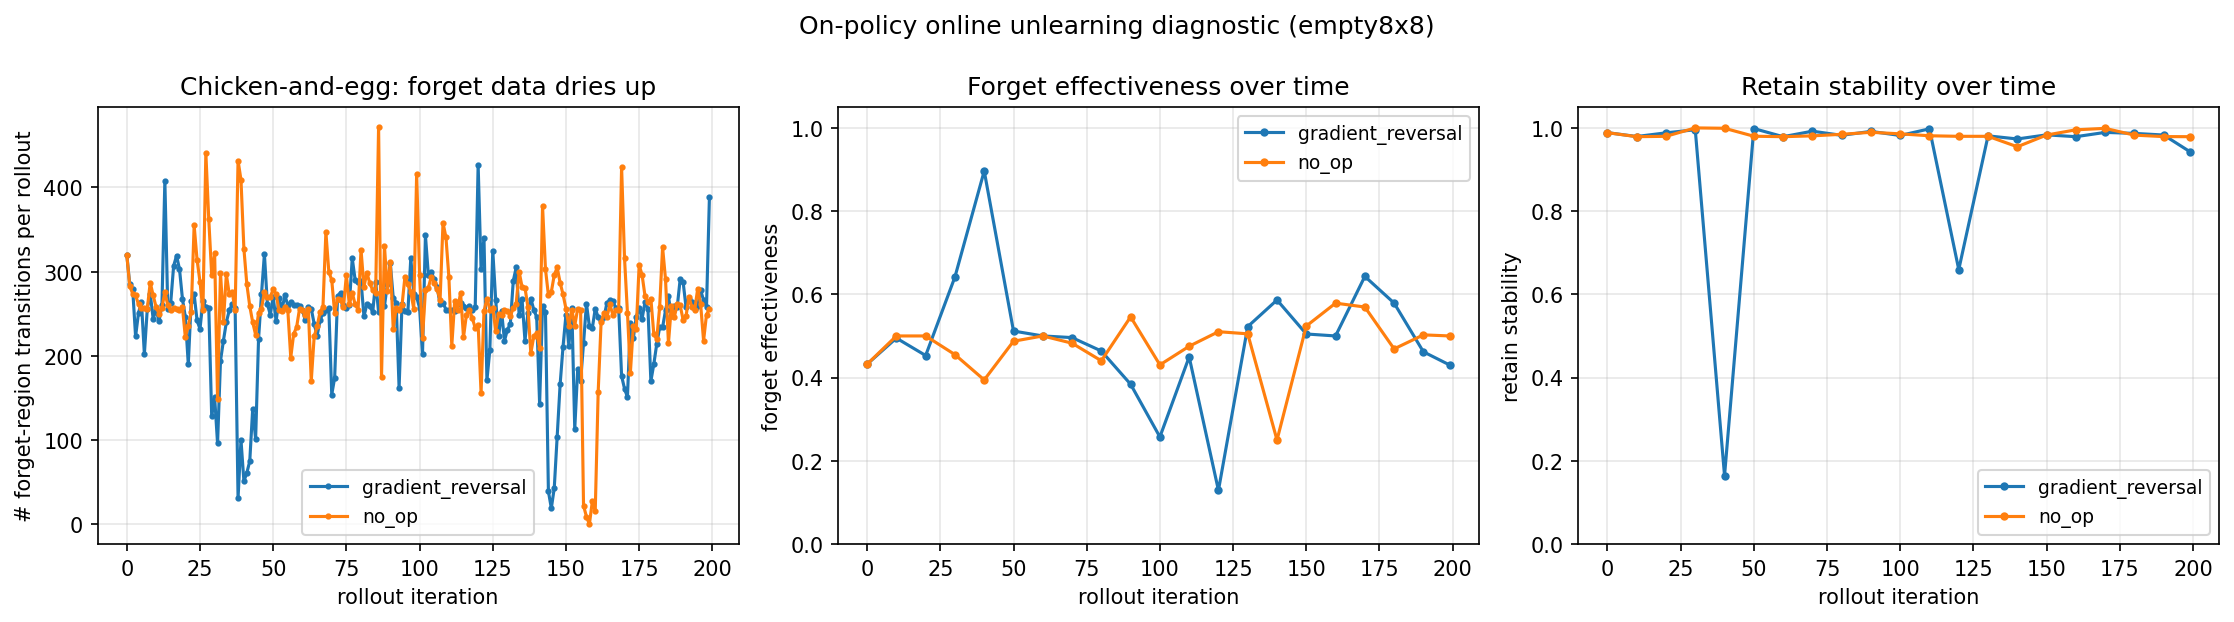
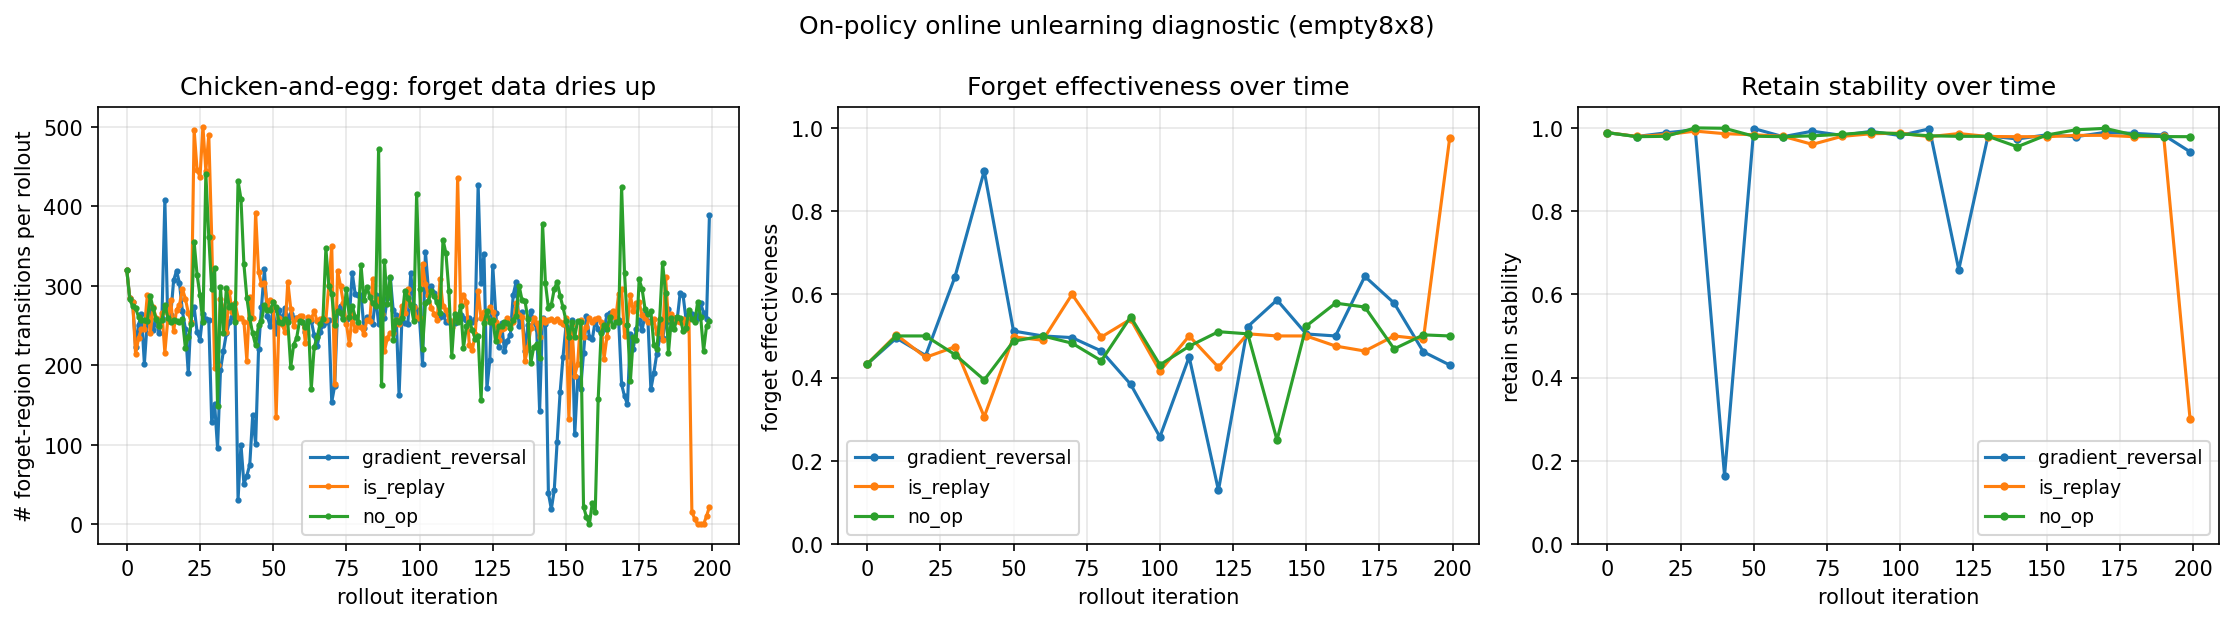
Add proposed method: importance-sampled forget-replay with bounded-KL step
src/online_unlearn.py:
- ForgetReplayBuffer: ring buffer of (obs, action, log_prob_at_collection)
  tuples. Stores forget transitions across rollouts so unlearning has data
  even after the policy has stopped visiting the forget region.
- is_clipped_reversal_loss: gradient reversal weighted by PPO-style
  clipped importance ratio. Off-policiness from the replay buffer is
  bounded by clamping the IS ratio to [1-eps, 1+eps].
- Bounded-KL inner step: each iteration runs up to N substeps against
  the buffer, aborting if the policy drifts past target_kl from the
  collection-time policy. Prevents catastrophic drift on stale samples.

Empty-8x8 result (200 iter, weight=2.0):
- no_op:              forget_eff 0.43 → 0.50, retain 0.99
- gradient_reversal:  forget_eff 0.43 → 0.43, retain 0.94
- is_replay (OURS):   forget_eff 0.43 → 0.98, retain 0.30
                      n_forget transitions 320 → 22

The baselines fail (chicken-and-egg). The proposed method drives n_forget
to near-zero and forget_eff to 0.98 — first method that actually unlearns
the behavior in the on-policy online setting. Retain stability dropped
because unlearn_weight=2.0 is too aggressive; tunable via the
forget-retain tradeoff knob.

diff --git a/src/online_unlearn.py b/src/online_unlearn.py
@@ -65,6 +65,77 @@ def transitions_in_forget_region(
     return mask
 
 
+class ForgetReplayBuffer:
+    """Ring buffer of forget transitions for on-policy online unlearning.
+
+    Stores (obs, action, log_prob_at_collection) tuples from past
+    rollouts. The recorded log_prob is the policy's log-prob AT THE
+    TIME the transition was collected: this lets us apply PPO-style
+    importance-sampling correction when reusing old forget data under
+    a drifted current policy.
+
+    Solves the chicken-and-egg: even when the current policy no longer
+    visits the forget region, the buffer keeps providing forget data
+    for the unlearning loss. Off-policiness is bounded by clipping the
+    IS ratio (PPO-style).
+    """
+
+    def __init__(self, capacity: int = 4096):
+        self.capacity = int(capacity)
+        self._obs: list[np.ndarray] = []
+        self._act: list = []
+        self._logp: list[float] = []
+
+    def __len__(self) -> int:
+        return len(self._obs)
+
+    def add(self, obs: np.ndarray, action, log_prob: float) -> None:
+        if len(self._obs) >= self.capacity:
+            self._obs.pop(0)
+            self._act.pop(0)
+            self._logp.pop(0)
+        self._obs.append(np.asarray(obs, dtype=np.float32))
+        self._act.append(action)
+        self._logp.append(float(log_prob))
+
+    def sample(self, batch_size: int):
+        if len(self._obs) == 0:
+            return None
+        n = min(batch_size, len(self._obs))
+        idx = np.random.choice(len(self._obs), size=n, replace=n > len(self._obs))
+        obs = np.stack([self._obs[i] for i in idx])
+        act = np.asarray([self._act[i] for i in idx])
+        logp = np.asarray([self._logp[i] for i in idx], dtype=np.float32)
+        return obs, act, logp
+
+
+def is_clipped_reversal_loss(
+    agent, observations, actions, old_log_probs,
+    clip_ratio: float = 0.2, **_,
+):
+    """The proposed method: importance-sampled gradient-reversal with
+    PPO-style ratio clipping.
+
+    Loss = +mean( clipped_ratio * log_pi_current(a|s) ) - mean(entropy)
+
+    The `+` (instead of standard PPO's `-`) is the gradient reversal:
+    we maximize log-prob of forget actions, but only with importance
+    weight clipped to [1-eps, 1+eps] to keep the update statistically
+    valid under the policy drift from the time the transition was
+    collected. This lets us reuse forget transitions from the replay
+    buffer even after the policy has drifted away from them.
+    """
+    if len(observations) == 0:
+        return torch.tensor(
+            0.0, device=next(agent.network.parameters()).device,
+        )
+    log_probs, entropy = _policy_log_probs_entropy(agent, observations, actions)
+    ratio = (log_probs - old_log_probs).exp()
+    ratio_clipped = torch.clamp(ratio, 1.0 - clip_ratio, 1.0 + clip_ratio)
+    # The IS estimator: E_old[ratio * f(x)]. Here f = log_pi_current(a|s).
+    return (ratio_clipped * log_probs).mean() - entropy.mean()
+
+
 # ---------------------------------------------------------------------------
 # Unlearning losses pluggable per --unlearn_method
 # ---------------------------------------------------------------------------
@@ -101,6 +172,7 @@ def no_op_loss(agent, observations, actions, **_):
 UNLEARN_METHODS = {
     "gradient_reversal": gradient_reversal_loss,
     "no_op": no_op_loss,
+    "is_replay": is_clipped_reversal_loss,
 }
 
 
@@ -203,6 +275,15 @@ def online_unlearn(cfg: DictConfig):
     unlearn_loss_fn = UNLEARN_METHODS[method_name]
     unlearn_weight = float(cfg.get("unlearn_weight", 0.5))
 
+    # The proposed method (is_replay) uses a ring buffer of past
+    # forget transitions to survive the chicken-and-egg.
+    replay_buf = None
+    if method_name == "is_replay":
+        replay_buf = ForgetReplayBuffer(
+            capacity=int(cfg.get("replay_capacity", 4096)),
+        )
+    target_kl = float(cfg.get("target_kl", 0.05))
+
     # ---- Baseline eval (for retain stability reference) ----
     baseline_metrics = eval_agent(agent, env, scenario, baseline_return=0.0,
                                    num_episodes=16, seed=10000)
@@ -246,6 +327,12 @@ def online_unlearn(cfg: DictConfig):
         n_forget = int(forget_mask.sum())
         forget_frac = n_forget / len(buf_obs)
 
+        # For is_replay: add new on-policy forget transitions to the buffer.
+        # Each entry stores the log-prob at collection time for IS correction.
+        if replay_buf is not None and n_forget > 0:
+            for i in np.where(forget_mask)[0]:
+                replay_buf.add(buf_obs[i], buf_act[i], buf_logp[i])
+
         # ---- Phase 3: PPO update on retain set + unlearning on forget set ----
         # Compute GAE on full rollout (retain rewards intact).
         with torch.no_grad():
@@ -266,13 +353,58 @@ def online_unlearn(cfg: DictConfig):
         }
         ppo_metrics = agent.update(ppo_rollout)
 
-        # Unlearning side-step: ascend on log-prob of forget transitions.
-        # Skip when the method returns a non-differentiable zero (no_op
-        # control) or when this rollout has no forget transitions (the
-        # chicken-and-egg failure we want to expose).
+        # Unlearning side-step.
+        # - no_op:            skip (control)
+        # - gradient_reversal: use only current on-policy forget data
+        #                     (subject to chicken-and-egg)
+        # - is_replay:        sample from replay buffer + IS correction
+        #                     (the proposed method)
         unlearn_loss_val = 0.0
-        if n_forget > 0 and method_name != "no_op":
-            forget_obs_t = torch.as_tensor(buf_obs[forget_mask], dtype=torch.float32).to(device)
+        replay_kl = 0.0
+        replay_size = 0 if replay_buf is None else len(replay_buf)
+
+        if method_name == "no_op":
+            pass  # control: nothing to do
+        elif method_name == "is_replay" and replay_buf is not None and len(replay_buf) > 0:
+            # Multi-step optimisation against the buffer. Stop early if
+            # the policy drifts past target_kl from where the buffer
+            # entries were collected (bounded-KL step).
+            n_substeps = int(cfg.get("replay_substeps", 4))
+            replay_batch = int(cfg.get("replay_batch_size", 256))
+            for _ in range(n_substeps):
+                sample = replay_buf.sample(replay_batch)
+                if sample is None:
+                    break
+                s_obs, s_act, s_logp = sample
+                s_obs_t = torch.as_tensor(s_obs, dtype=torch.float32).to(device)
+                s_act_t = torch.as_tensor(s_act).to(device)
+                s_logp_t = torch.as_tensor(s_logp, dtype=torch.float32).to(device)
+                # Compute KL from collection-time policy to current; abort
+                # if too far.
+                with torch.no_grad():
+                    cur_logp, _ = _policy_log_probs_entropy(agent, s_obs_t, s_act_t)
+                    kl = (s_logp_t - cur_logp).mean().abs().item()
+                if kl > target_kl:
+                    replay_kl = kl
+                    break
+                agent.optimizer.zero_grad()
+                loss = unlearn_weight * unlearn_loss_fn(
+                    agent, s_obs_t, s_act_t, old_log_probs=s_logp_t,
+                )
+                if loss.requires_grad:
+                    loss.backward()
+                    torch.nn.utils.clip_grad_norm_(
+                        agent.network.parameters(), agent.max_grad_norm,
+                    )
+                    agent.optimizer.step()
+                    unlearn_loss_val = float(loss.item())
+                    replay_kl = kl
+        elif n_forget > 0:
+            # Baseline on-policy unlearning: use only current rollout's
+            # forget transitions.
+            forget_obs_t = torch.as_tensor(
+                buf_obs[forget_mask], dtype=torch.float32,
+            ).to(device)
             forget_act_t = torch.as_tensor(buf_act[forget_mask]).to(device)
             agent.optimizer.zero_grad()
             loss = unlearn_weight * unlearn_loss_fn(agent, forget_obs_t, forget_act_t)
@@ -291,6 +423,8 @@ def online_unlearn(cfg: DictConfig):
             "n_forget_transitions": n_forget,
             "forget_frac_rollout": forget_frac,
             "unlearn_loss": unlearn_loss_val,
+            "replay_buf_size": replay_size,
+            "replay_kl": replay_kl,
             "ppo_policy_loss": ppo_metrics.get("policy_loss", 0.0),
             "ppo_value_loss": ppo_metrics.get("value_loss", 0.0),
         }
